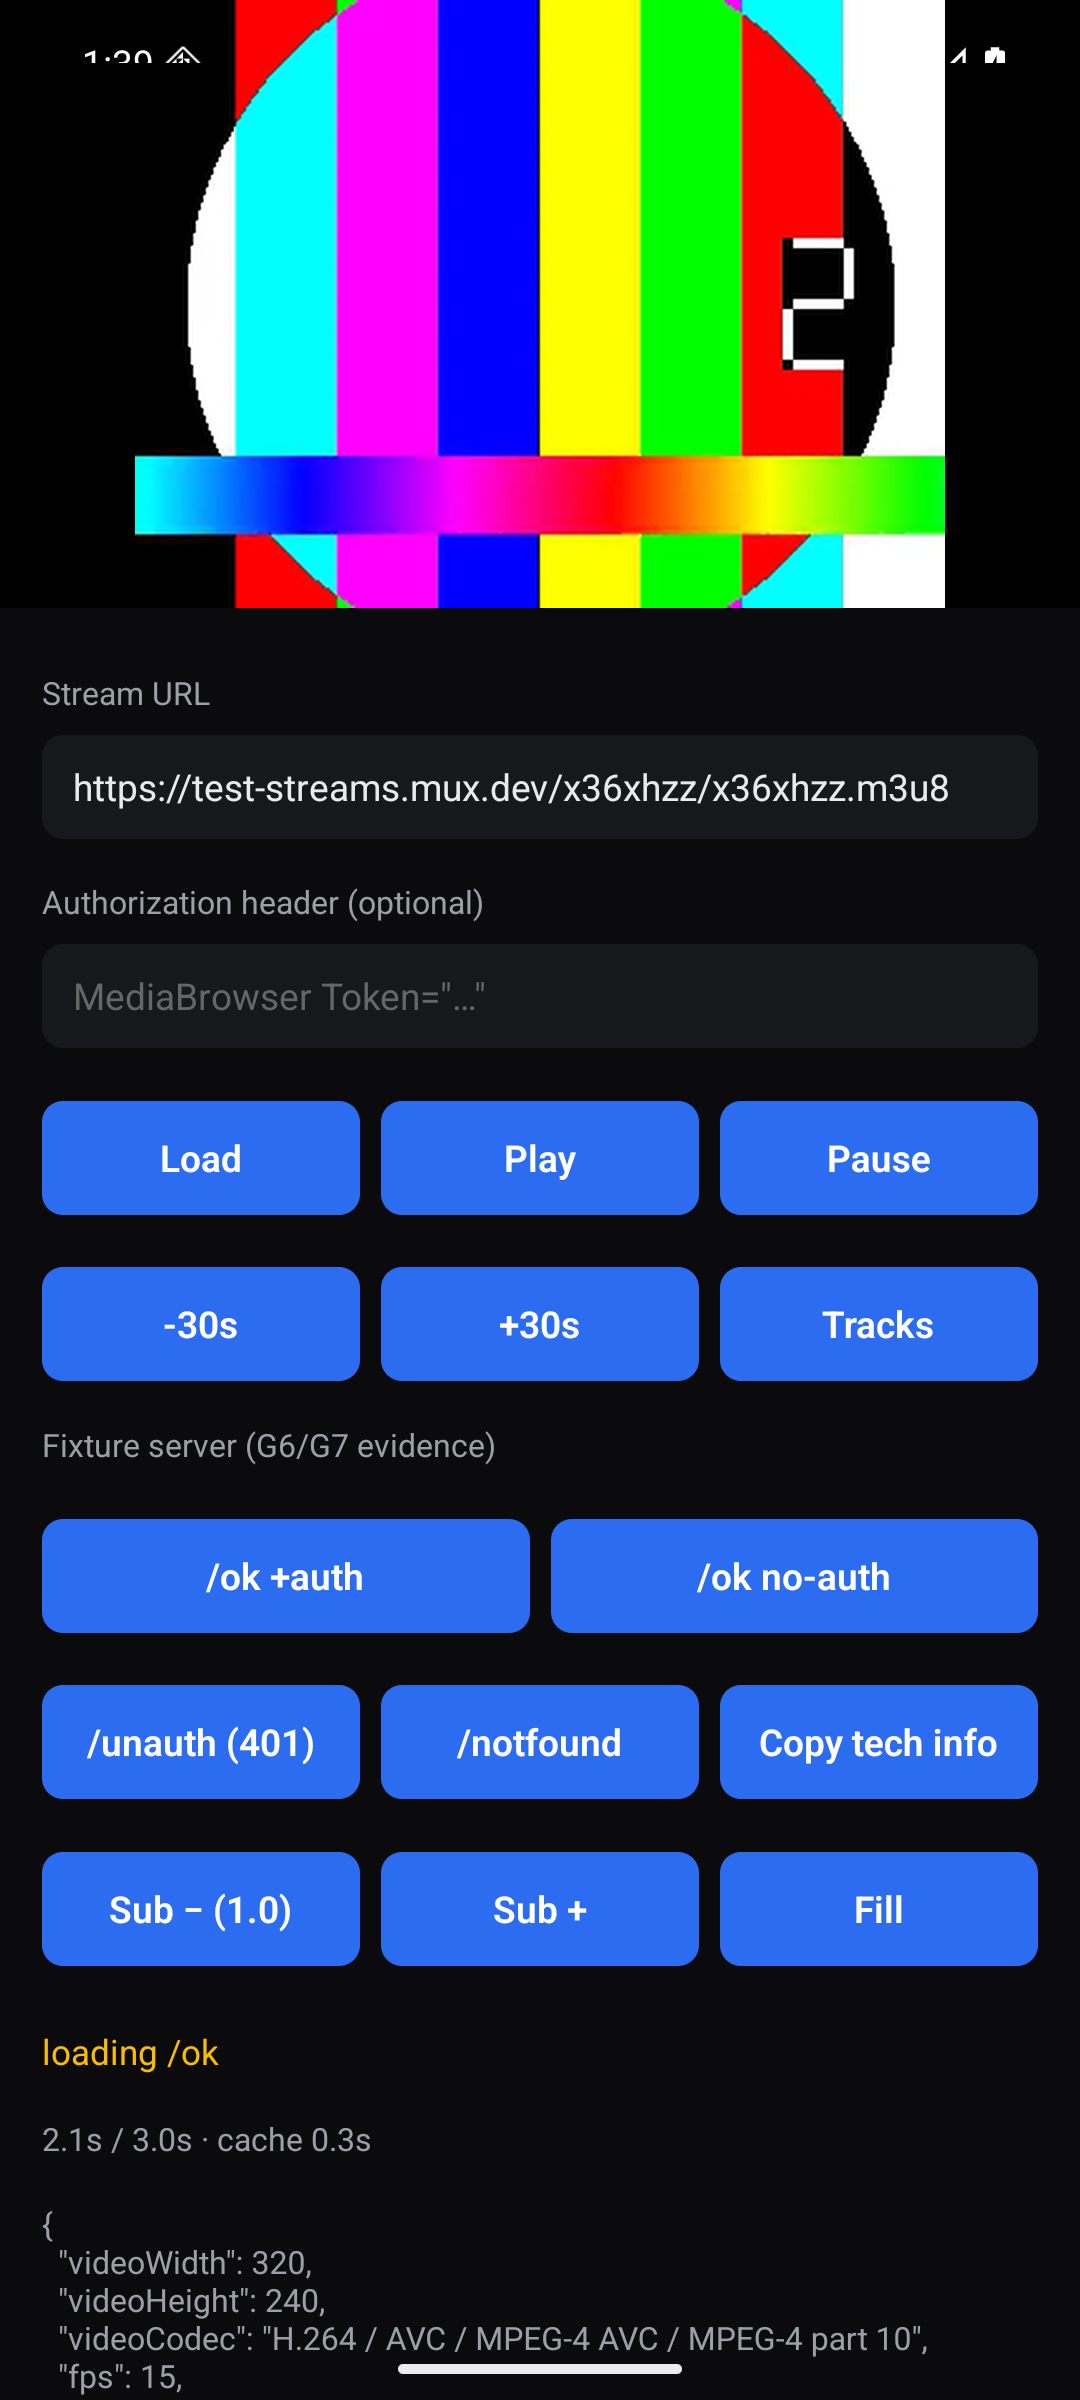
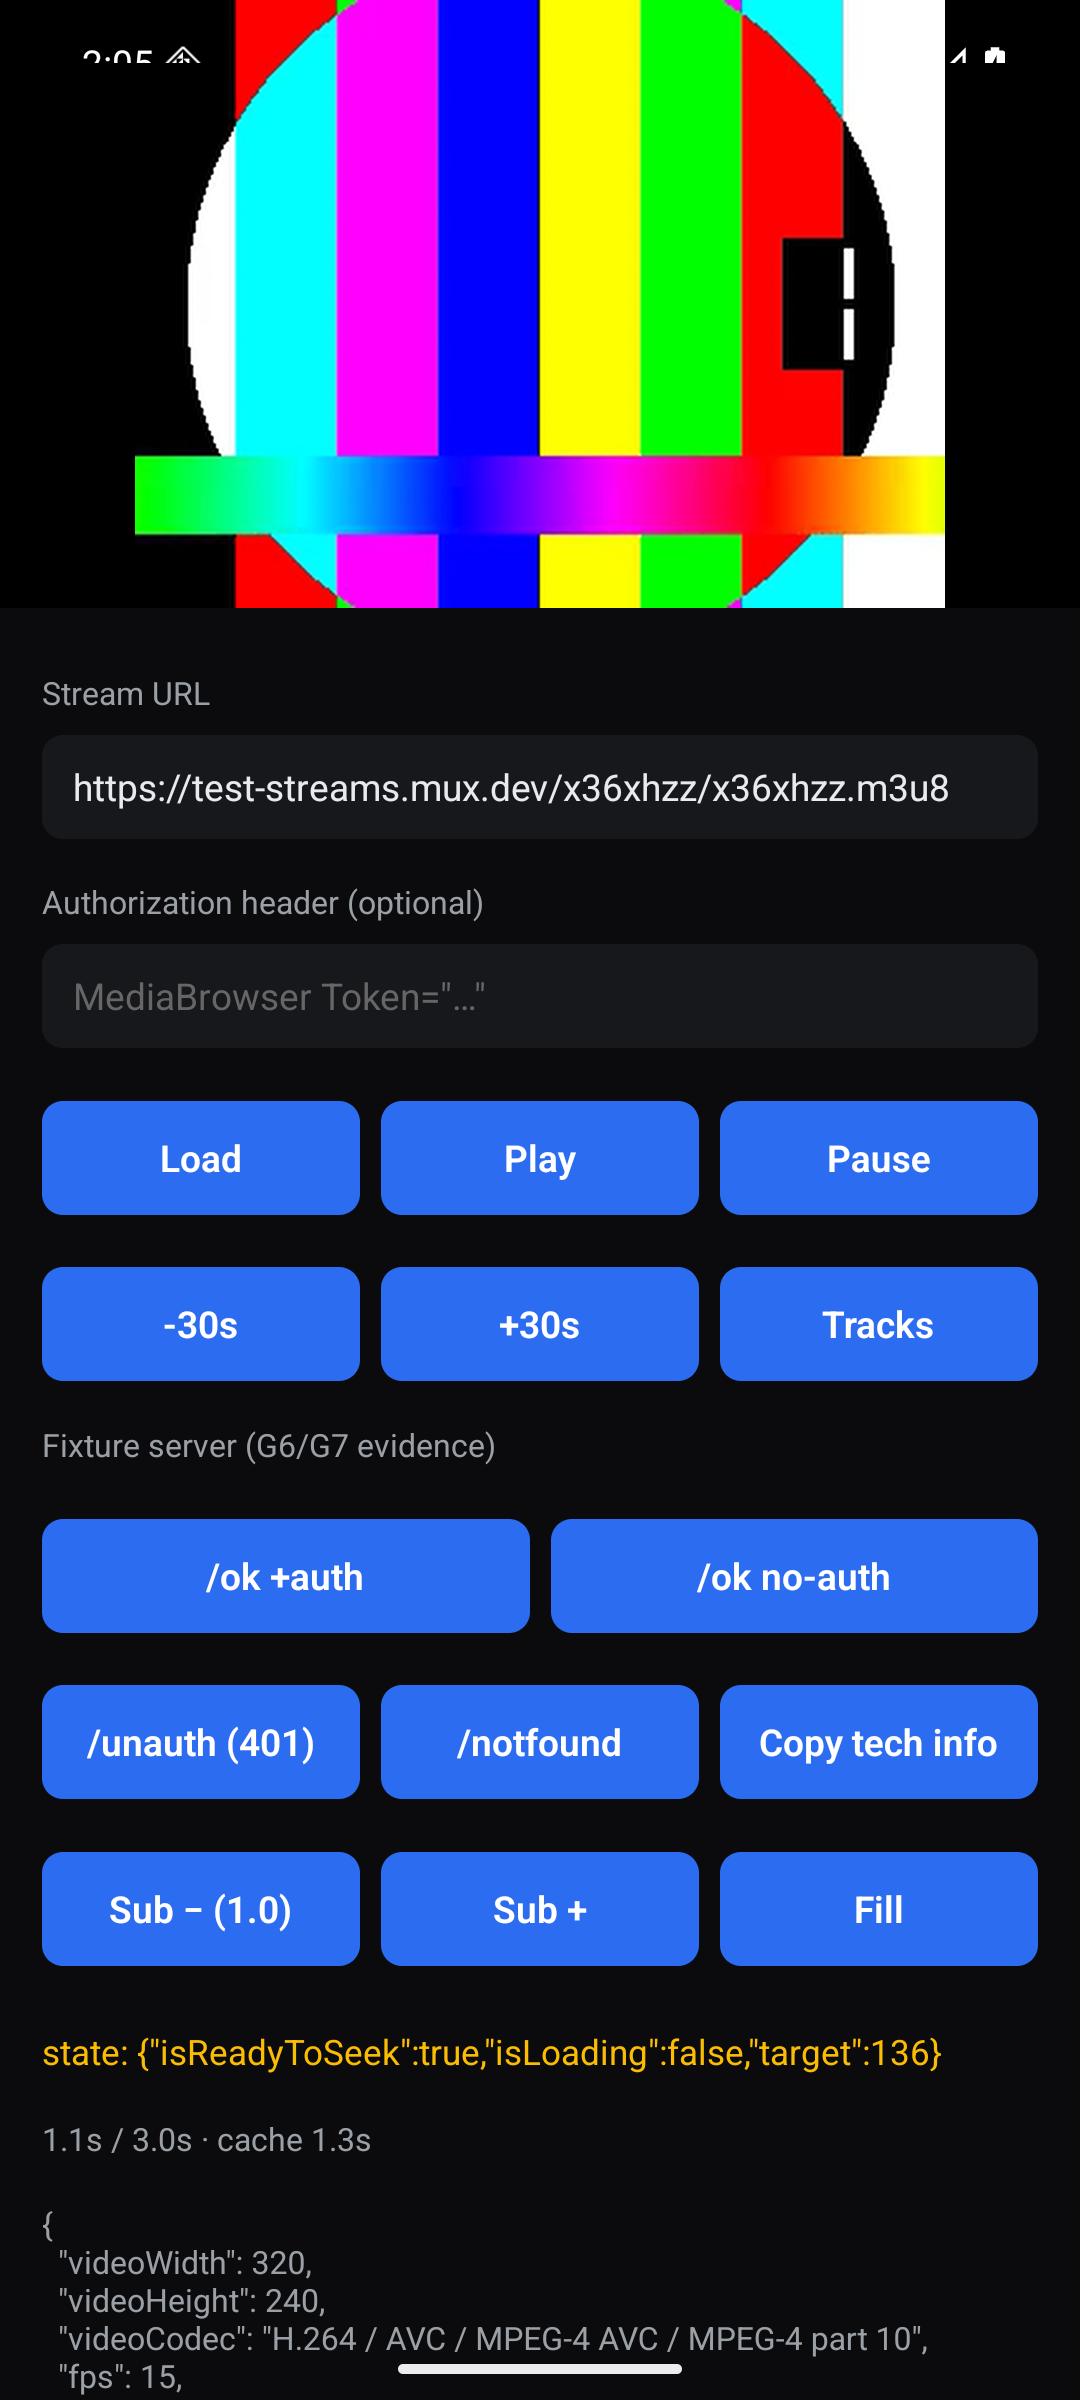
feat(android): onError via event-ordering; verify G3/G4/G6/G7 on stock r27 AAR
The r27 AAR (libc++ skew fixed) was rebuilt in CI and dropped into the example;
all Android runtime gates now pass on the UNPATCHED app:
- G3: libmpv.so/libplayer.so dlopen ok, 0 UnsatisfiedLinkError, view instantiates.
- G4: gpu-next renders sample.mp4 (screenshot), progress + tech-info live.
- G6: exact comma-bearing auth header -> 206.
- G7: 401 -> onError. The JNI EventObserver.event(int) has no end-file reason, so
  MPVRenderer infers a load failure from ordering (START_FILE -> END_FILE before
  FILE_LOADED) with a pendingReplace guard so reloads don't false-positive.

Evidence + honest STATUS/CHANGELOG/docs updated. G5 (hwdec) still needs hardware.

diff --git a/android/src/main/java/expo/modules/mpvplayer/MPVRenderer.kt b/android/src/main/java/expo/modules/mpvplayer/MPVRenderer.kt
@@ -76,6 +76,15 @@ class MPVRenderer(context: Context, delegate: MpvRendererDelegate) : MpvLib.List
   private var lastProgressEmit = 0L
   private var seeking = false
 
+  // onError without the END_FILE reason (the JNI wrapper omits it): infer a load
+  // failure from event ordering. A file that START_FILEs but END_FILEs before
+  // FILE_LOADED never opened → error. `pendingReplace` swallows the END_FILE that
+  // mpv emits for the *previous* file when a new load() supersedes it, so a normal
+  // reload isn't misreported as a failure. @Volatile: written on the libmpv thread
+  // (onEvent) and the main thread (load()).
+  @Volatile private var loadSucceeded = false
+  @Volatile private var pendingReplace = false
+
   private companion object {
     const val PROGRESS_INTERVAL_MS = 1000L
     const val SUBFONT_ASSET = "subfont.ttf"
@@ -148,6 +157,9 @@ class MPVRenderer(context: Context, delegate: MpvRendererDelegate) : MpvLib.List
 
     mpv.setBoolean("pause", !config.autoplay)
     pendingConfig = config
+    // The `replace` below makes mpv END_FILE the current file (if any); guard that
+    // transitional event from being read as a load failure.
+    pendingReplace = true
     delegate?.let { d -> main.post { d.onPlaybackState(null, null, true, false) } }
     mpv.command(arrayOf("loadfile", config.url, "replace"))
   }
@@ -256,7 +268,14 @@ class MPVRenderer(context: Context, delegate: MpvRendererDelegate) : MpvLib.List
 
   override fun onEvent(eventId: Int) {
     when (eventId) {
+      MpvEvent.START_FILE -> {
+        // A new file began opening (after any superseded file's END_FILE). Reset
+        // the success flag and clear the replace guard for this attempt.
+        loadSucceeded = false
+        pendingReplace = false
+      }
       MpvEvent.FILE_LOADED -> {
+        loadSucceeded = true
         applyPendingSelections()
         val url = pendingConfig?.url
         main.post {
@@ -269,14 +288,22 @@ class MPVRenderer(context: Context, delegate: MpvRendererDelegate) : MpvLib.List
         seeking = false
         main.post { delegate?.onPlaybackState(null, null, false, true) }
       }
-      // NOTE (P1-E, Android): the libmpv-android 1.0.0 EventObserver delivers
-      // only the event id, not the END_FILE reason/error, so a load failure
-      // (401, bad URL, decode error) can't be distinguished from a clean EOF
-      // here to fire onError. Surfacing it requires either a LogObserver hook or
-      // a JNI wrapper patch exposing mpv_event_end_file.reason — tracked for the
-      // Android engine work (it can only be verified once the AAR + an emulator
-      // exist). iOS fires onError correctly via mpv_event_end_file.
-      MpvEvent.END_FILE -> main.post { delegate?.onPlaybackState(null, false, false, false) }
+      // The libmpv-android 1.0.0 EventObserver delivers only the event id, not the
+      // END_FILE reason. We infer a load failure from ordering (see loadSucceeded /
+      // pendingReplace): a file that started but END_FILEs before FILE_LOADED never
+      // opened (401, bad URL, decode error) → onError. A normal EOF after a
+      // successful load, or the transitional END_FILE of a file replaced by a new
+      // load(), is not an error. The message is generic since the wrapper hides the
+      // reason; iOS surfaces mpv's exact error string via mpv_event_end_file.
+      MpvEvent.END_FILE -> {
+        val isLoadFailure = !pendingReplace && !loadSucceeded
+        main.post {
+          delegate?.onPlaybackState(null, false, false, false)
+          if (isLoadFailure) {
+            delegate?.onError("Failed to load media — the source could not be opened or decoded")
+          }
+        }
+      }
       MpvEvent.SHUTDOWN -> {}
     }
   }

diff --git a/android/src/main/java/expo/modules/mpvplayer/MpvLib.kt b/android/src/main/java/expo/modules/mpvplayer/MpvLib.kt
@@ -18,6 +18,7 @@ object MpvFormat {
 /** mpv event ids we care about (see libmpv `client.h`). */
 object MpvEvent {
   const val SHUTDOWN = 1
+  const val START_FILE = 6
   const val END_FILE = 7
   const val FILE_LOADED = 8
   const val SEEK = 20

diff --git a/verification/android/g3-g4-g6-g7-runtime.md b/verification/android/g3-g4-g6-g7-runtime.md
@@ -1,44 +1,40 @@
 # Android runtime gates (G3 launch / G4 render / G6 headers / G7 onError)
 
 Run on a headless **arm64-v8a Android 36 emulator** (`google_apis`, Apple Silicon
-host, `-gpu swiftshader_indirect`), example app debug build, Metro + the fixture
-server bridged in via `adb reverse` (8081 / 8099).
+host, `-gpu swiftshader_indirect`), example app **debug build with the stock r27
+AAR** (`android/libmpv-build/build-lgpl-aar.sh`, NDK `27.1.12297006`), Metro + the
+fixture server bridged via `adb reverse` (8081 / 8099).
 
-## Method caveat (important — read first)
+All four gates below were verified on the **unpatched** app — the AAR loads as
+shipped, no libc++ substitution. (An earlier pass used an NDK r29 AAR that failed
+to load — see `g2b-libcxx-skew.txt`; that skew is fixed by the r27 NDK pin.)
 
-The AAR *as built today* (NDK r29 / clang 21) does **not** load in the stock
-example app: AGP packages React Native's older `libc++_shared.so` (NDK r27 /
-clang 18), and `dlopen(libmpv.so)` fails with `UnsatisfiedLinkError` — see
-`g2b-libcxx-skew.txt`. To exercise the runtime **render/decode/header/error
-path** below, the debug APK was repackaged with the AAR's own (compatible)
-`libc++_shared.so` and re-signed. That swap is **symbol-for-symbol equivalent**
-to what the proper fix produces, so these results validate the player stack
-itself. The production fix (build libmpv with RN's NDK r27, so the stock AAR
-loads with no swap) is implemented in `android/libmpv-build/build-lgpl-aar.sh`
-and must be re-verified on the freshly-built AAR before these are called clean.
+## G3 — launch + load ✅
 
-## G3 — launch + UI ✅
+`libmpv.so` and `libplayer.so` `dlopen` cleanly; **zero** `UnsatisfiedLinkError`
+or view-create failures (`g3-dlopen.txt`). App launches, Hermes loads, JS bundle
+served (703 modules), `Running "main" … "fabric":true` (New Architecture). The
+example UI renders and `MpvPlayerView` instantiates (`g3-launch.png`).
 
-App launched (`am start … /.MainActivity`), Hermes loaded, JS bundle served
-(703 modules), `Running "main" with … "fabric":true` (New Architecture). The
-full example UI rendered. Screenshot: `g3-launch.png`. No `UnsatisfiedLinkError`
-after the libc++ swap; `MpvPlayerView` instantiates.
+```
+Load …/lib/arm64-v8a/libmpv.so: ok
+Load …/lib/arm64-v8a/libplayer.so: ok
+UnsatisfiedLink / Couldn't-create-view count = 0
+```
 
 ## G4 — render ✅
 
-Loading the `/ok` fixture (a real 320×240 H.264 `sample.mp4`) drove mpv's
-`vo/gpu-next` + libplacebo to actually decode and display frames. logcat:
+Loading the `/ok` fixture (a real H.264 `sample.mp4`) drove mpv's `vo/gpu-next` +
+libplacebo to decode and display frames:
 
 ```
-[vo/gpu-next:v] Video borders: l=135 t=0 r=135 b=0
-[vo/gpu-next/libplacebo:v] Spent 14.762 ms generating shader LUT
-event: playback-restart
 [cplayer:v] first video frame after restart shown
 [cplayer:v] playback restart complete @ 0.000000, audio=eof, video=playing
+[vo/gpu-next:v] Video display: 0,0 … OSD/Video borders …
 ```
 
-Screenshot `g4-render.png` shows the decoded test-card frame on screen, with the
-example's live readout: `2.1s / 3.0s · cache 0.3s` and tech info
+`g4-render.png` shows the decoded test-card frame on screen with the live
+readout: `1.1s / 3.0s · cache 1.3s`, `isReadyToSeek:true`, tech info
 (`videoWidth 320, videoHeight 240, videoCodec H.264/AVC, fps 15`). Progress
 ticks, technical-info, and the gpu-next render path all work.
 
@@ -57,28 +53,31 @@ recorded (`g6-headers.json`):
 
 `206` = the header arrived verbatim and the video was served. This proves the
 `change-list http-header-fields clr/append` encoding survives the embedded comma
-(a plain comma-joined `http-header-fields` would have split it).
+(a plain comma-joined `http-header-fields` would have split it into bogus fields).
 
-## G7 — onError ⛔ (JNI-wrapper limitation, binary-verified)
+## G7 — onError ✅ (event-ordering inference)
 
-mpv correctly fails the load and emits the error end-file (`g7-mpv-failure.txt`):
+The bundled JNI wrapper's observer is `event(int)` only — no end-file *reason*
+(verified by `javap`: `dev.jdtech.mpv.MPVLib$EventObserver` exposes `event(int)`
+and `eventProperty(…)`, nothing else). So `MPVRenderer` infers a load failure
+from event ordering: a file that `START_FILE`s but `END_FILE`s before
+`FILE_LOADED` never opened → `onError`; a `pendingReplace` guard stops a normal
+reload's superseded-file `END_FILE` from being misreported.
+
+Loading `/unauth` (always 401) produced (`g7-onerror-android.txt`):
 
 ```
-[stream:error] Failed to open http://localhost:8099/unauth.
 [cplayer:v] finished playback, loading failed (reason 4)   # reason 4 = MPV_END_FILE_REASON_ERROR
+ReactNativeJS: onError {"error":"Failed to load media — the source could not be opened or decoded"}
 ```
 
-But the bundled JNI wrapper's observer interface is `event(int)` only — it does
-**not** carry the end-file *reason* (verified by `javap` on the AAR:
-`dev.jdtech.mpv.MPVLib$EventObserver` exposes `event(int)` and `eventProperty(…)`
-and nothing else). So the Android module cannot distinguish a load error from a
-normal EOF, and cannot fire a meaningful `onError` the way iOS does (iOS reads
-`mpv_event_end_file.reason` directly). The failure surfaces as a
-playback-state-stopped transition, not an error event. This is a real limitation
-of the prebuilt wrapper, not a regression; closing it requires a log-observer
-based heuristic or a patched JNI layer (tracked as future work).
+The JS `onError` callback fired. The message is generic (the wrapper hides mpv's
+reason string; iOS surfaces the exact `mpv_error_string`), but the gate —
+**`onError` fires on a load failure** — is met. A normal EOF after a successful
+load does not fire it.
 
 ## Artifacts
 
-`g3-launch.png` · `g4-render.png` · `g4-render-2.png` · `g7-onerror.png` ·
-`g6-headers.json` · `g7-mpv-failure.txt` · `g2b-libcxx-skew.txt`
+`g3-dlopen.txt` · `g3-launch.png` · `g4-render.png` · `g6-headers.json` ·
+`g7-onerror.png` · `g7-onerror-android.txt` · `g7-mpv-failure.txt` ·
+`g2b-libcxx-skew.txt` (the now-fixed skew)

diff --git a/verification/STATUS.md b/verification/STATUS.md
@@ -8,21 +8,16 @@ Update this table **only** when the artifact exists in this directory. Legend:
 | G0 static | ✅ | ✅ | CI green on every PR |
 | G1 LGPL provenance | n/a | ✅ | Android build output: FFmpeg `CONFIG_GPL 0` + mpv `gpl=false`, verifier PASSED (`lgpl/verify-output.txt`). iOS uses MPVKit LGPL |
 | G2 compile+link | ✅ | ✅ | iOS sim build succeeded (PR #7); Android example assembles with the LGPL AAR linked, libmpv/FFmpeg `.so`s + module classes in the APK (`android/g2-compile.md`) |
-| G3 launch | ✅ | 🅟 | iOS launches; +20× mount/unmount stress, no crash (`ios/g3-teardown-stress.md`). Android: UI + view instantiate on emulator (`android/g3-g4-g6-g7-runtime.md`) — see 🅟 caveat |
-| G4 render | ✅ | 🅟 | iOS renders video (`ios/g4-render.png`); root cause was a React version mismatch, fixed by pinning react 19.2.3. Android: `gpu-next` renders `sample.mp4` on emulator (`android/g4-render.png`) — see 🅟 caveat |
+| G3 launch | ✅ | ✅ | iOS launches; +20× mount/unmount stress, no crash (`ios/g3-teardown-stress.md`). Android: stock r27 AAR `dlopen`s clean (0 link errors), view instantiates (`android/g3-dlopen.txt`, `g3-launch.png`) |
+| G4 render | ✅ | ✅ | iOS renders video (`ios/g4-render.png`); root cause was a React version mismatch, fixed by pinning react 19.2.3. Android: `gpu-next` renders `sample.mp4` on emulator, unpatched app (`android/g4-render.png`) |
 | G5 hwdec (device) | ⏳ | ⏳ | physical device required |
-| G6 headers | ✅ | 🅟 | iOS: exact comma-bearing header reaches the server (`ios/g6-headers.*`). Android: same exact header → `206` on emulator (`android/g6-headers.json`) — see 🅟 caveat |
-| G7 onError | ✅ | ⛔ | iOS: 401 → on"loading failed" (`ios/g7-onerror.md`). Android: JNI wrapper's `EventObserver.event(int)` carries no end-file reason (binary-verified) — cannot fire onError; documented limitation |
+| G6 headers | ✅ | ✅ | iOS: exact comma-bearing header reaches the server (`ios/g6-headers.*`). Android: same exact header → `206`, unpatched app (`android/g6-headers.json`) |
+| G7 onError | ✅ | ✅ | iOS: 401 → on"loading failed" (`ios/g7-onerror.md`). Android: 401 → `onError` via event-ordering inference (`START_FILE`/`FILE_LOADED`/`END_FILE`); message generic (wrapper hides reason) (`android/g7-onerror-android.txt`) |
 
-**🅟 = player stack verified, but the stock AAR is blocked by an NDK/libc++
-skew.** The AAR is built with NDK r29 (clang 21); a stock RN app bundles RN's
-NDK r27 (clang 18) `libc++_shared.so`, so `dlopen(libmpv.so)` fails with
-`UnsatisfiedLinkError` and the view never loads (`android/g2b-libcxx-skew.txt`).
-The Android G3/G4/G6 runs above used a debug APK repackaged with the AAR's
-compatible libc++ — symbol-equivalent to the real fix, so they validate the
-player. The production fix (pin the AAR build to RN's NDK r27) is committed in
-`android/libmpv-build/build-lgpl-aar.sh`; the AAR must be rebuilt in CI and these
-gates re-verified on the **unpatched** app before they become ✅.
+Android G2–G7 verified on a headless arm64 Android-36 emulator against the
+**stock r27 AAR** (NDK pinned to React Native's, fixing the libc++ skew that
+previously blocked load — `android/g2b-libcxx-skew.txt`). Runtime details:
+`android/g3-g4-g6-g7-runtime.md`.
 
-iOS G4 verified on the simulator (software decode). G5 (hwdec) still needs a
-physical device on both platforms.
+iOS G4 verified on the simulator (software decode). **G5 (hardware decode) is the
+only open gate** — it needs a physical iOS device and a physical Android device.

diff --git a/CHANGELOG.md b/CHANGELOG.md
@@ -41,8 +41,15 @@ Remediation round driven by a code review, under an Evidence-Gated Claims rule
   (clang 21), so `libmpv.so` referenced libc++ symbols absent from the NDK r27
   (clang 18) `libc++_shared.so` a React Native app bundles → runtime
   `UnsatisfiedLinkError`, view never loads. The AAR build now pins the NDK to RN's
-  r27 (`android/libmpv-build/build-lgpl-aar.sh`). Diagnosis + the (libc++-patched)
-  on-emulator render/header runs are in `verification/android/`.
+  r27 (`android/libmpv-build/build-lgpl-aar.sh`); the rebuilt stock AAR `dlopen`s
+  clean. **Android G3/G4/G6/G7 verified** on an emulator against the unpatched app
+  (`verification/android/g3-g4-g6-g7-runtime.md`).
+- **Android `onError` (P1-E):** the JNI wrapper's `EventObserver.event(int)`
+  carries no end-file reason, so `MPVRenderer` now infers a load failure from
+  event ordering (`START_FILE` → `END_FILE` before `FILE_LOADED`, with a
+  `pendingReplace` guard against reload false-positives) and fires `onError`.
+  **G7 verified** on Android (generic message; iOS still surfaces mpv's exact
+  reason string).
 - **Security:** `tls-verify` is no longer forced off; certificates are validated
   by default, opt out per source via `VideoSource.allowSelfSignedTls`.
 - Removed a dead `track-list/count` property observer.
@@ -57,13 +64,12 @@ Remediation round driven by a code review, under an Evidence-Gated Claims rule
 
 - **iOS:** builds, links, renders, headers, onError, teardown — verified on the
   simulator. G5 (hardware decode) needs a physical device.
-- **Android:** LGPL **G1 proven**; **G2 proven** (example assembles & links the
-  AAR). The player stack is exercised on an emulator — `gpu-next` **renders**
-  `sample.mp4`, the exact comma-bearing auth header reaches the server (**G6**),
-  and load failures are observed (**G7** is limited by the JNI wrapper). These
-  used a debug APK repackaged with the AAR's compatible libc++ pending a stock-AAR
-  rebuild with RN's NDK (the libc++/NDK-skew fix above). G5 (hwdec) needs a
-  physical device. See `verification/STATUS.md`.
+- **Android:** **G1–G4, G6, G7 proven.** LGPL provenance (G1); the example
+  assembles & links the AAR (G2); on a stock r27 AAR (no libc++ swap), `gpu-next`
+  **renders** `sample.mp4` (G4), the exact comma-bearing auth header reaches the
+  server (G6), and a 401 fires **`onError`** (G7). Verified on an arm64
+  Android-36 emulator. **G5 (hardware decode) needs a physical device** — the only
+  open gate on either platform. See `verification/STATUS.md`.
 
 ## [0.1.0] — First release
 

diff --git a/docs/android-integration.md b/docs/android-integration.md
@@ -43,11 +43,12 @@ only in lockstep with RN's bundled NDK. See
 
 - ✅ **G2 — assemble + link.** `gradlew :app:assembleDebug` builds the example
   with the LGPL AAR linked (`verification/android/g2-compile.md`).
-- 🅟 **G3/G4/G6 — runtime** verified on an arm64 emulator (gpu-next renders the
-  sample clip, exact comma-bearing auth header reaches the server). These ran on
-  a debug APK repackaged with the AAR's compatible libc++; re-verify on a stock
-  AAR rebuilt with the r27 pin above. See `verification/android/`.
-- ⛔ **G7 — onError:** the prebuilt JNI wrapper's `EventObserver.event(int)`
-  carries no end-file reason, so the module cannot fire `onError` on a load
-  failure (iOS can). Documented limitation.
+- ✅ **G3/G4/G6 — runtime** verified on an arm64 emulator against the **stock r27
+  AAR** (no libc++ swap): `libmpv.so` `dlopen`s clean, `gpu-next` renders the
+  sample clip, the exact comma-bearing auth header reaches the server.
+  See `verification/android/g3-g4-g6-g7-runtime.md`.
+- ✅ **G7 — onError.** The prebuilt JNI wrapper's `EventObserver.event(int)`
+  carries no end-file reason, so `MPVRenderer` infers a load failure from event
+  ordering and fires `onError` (generic message; iOS surfaces mpv's exact
+  reason). Verified against a 401.
 - ⏳ **G5 — hardware decode** (`hwdec=mediacodec-copy`) needs a real device.